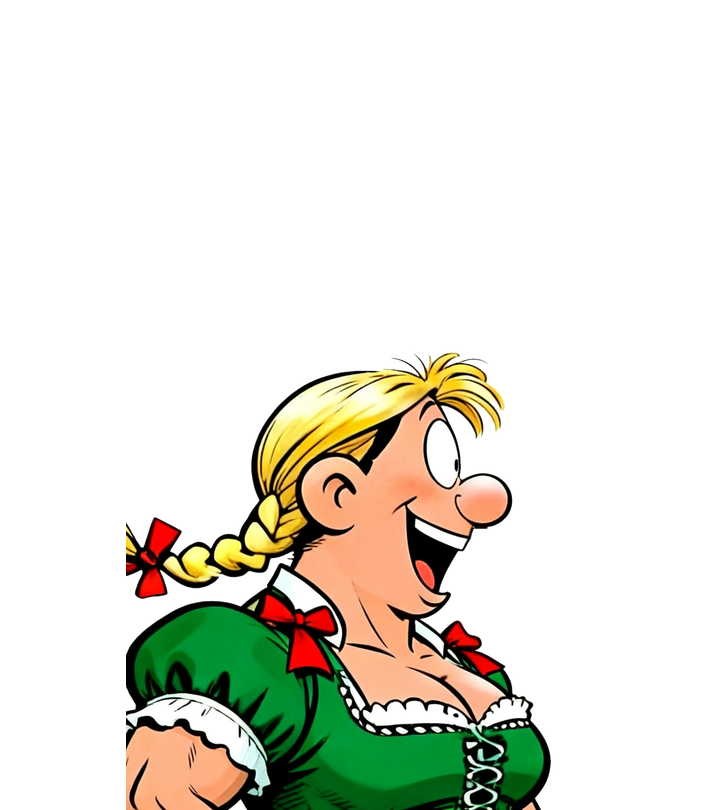
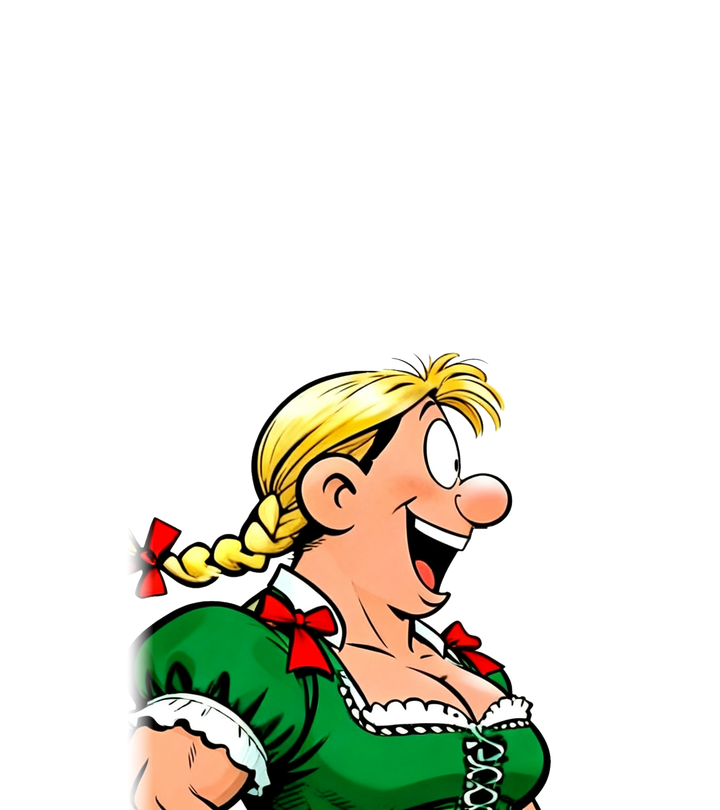
Story: Hanna's sleeves fade out at the sides instead of a box edge
Claude-Session: https://claude.ai/code/session_014QGDmV81LUu1R5ACRdt9j8

Changed region(s): [[0.1528, 0.7716, 0.2139, 1.0], [0.1528, 0.6481, 0.2139, 0.7407]]

diff --git a/guides/DESIGNER_MANUAL.md b/guides/DESIGNER_MANUAL.md
@@ -4629,7 +4629,7 @@ and then its `Door Sound` (`door_open`, a wooden door creaking open)
 name off the bottom middle of its picture, e.g. the Club House's, so the
 Trophy Room hut in front of it keeps its own name.
 
-**The village buttons (23 Oct 2026)**: the village picture (assets/base/village.png) now has the drawn Pub right of the brewery. Like the brewery church, it is a button: Buildings.csv `Village Art` = `pub_inn` (assets/base/map/pub_inn.png = only its pixels, pub_inn_hover.png = lit up with a gold edge). The pitch is a button too: the new row `play_field` ("Play a match", Action `play:friendly`, Village Art `village_field`). Clicking the grass does what the Play a match flag did (the Match Maker), and while that row is on the base the flag is not on the top row. The pieces are made by /mnt/project-files/art_tool/base/village_buttons/make_pieces.py. The Dorms is drawn in too (the white block far left, behind the tree, chapel and houses): Village Art `dorms_block`, lit up on hover the same way. The Brewer visitor is off the base for now: his Visitors.csv `Requires` is `flag:brewer_on_base`; put `unlocked:Brewery` back to bring him back. Later the same day the whole picture was redrawn (r172): the new wooden Club House chalet in the middle (Village Art `clubhouse_chalet`), the low houses and little chapel under the Dorms and Club House all together as the Training Ground (`training_houses`), and the wooden Trophy hut with the gold cup in the field corner between the stone wall and the fence (`trophy_hut`). Every building on the base now lights up yellow on hover. The Dorms and Club House name tags are lifted onto their own building with `Name Offset` so the houses in front do not hide them. Pieces: /mnt/project-files/art_tool/base/village_buttons/make_masks_r172.py, then make_pieces_r172.py. The base's name now hangs on the tavern sign like the other screens (data/MenuHeader.csv; Language.csv `the_base`, `tutorial_base`). THE TUTORIAL NOW STARTS ON THE BASE (23 Oct 2026, Anthony): Tuning.csv `tutorial_first_scene` = `tut-base-welcome`, one Dialogue.csv line over the village picture (StoryArt.csv background `village`): the Head Coach says "Ah Coach! You are here, glad you could make it", and its Next `prologue/open` carries on into Pub Dialogue 1 and the tutorial match as before. Put `prologue` back in `tutorial_first_scene` to open in the pub again. THE NEW INTRODUCTION (23 Oct, Anthony): the welcome is now four lines ("Welcome to Sturmball!" ... "let us get a drink at the Pub"), and it ends ON THE BASE itself, in the tutorial's own save: everything is greyed out except the Pub, which glows (Guide.csv row `tut_intro_pub`, Highlight `Pub`, Only `true`; the tutorial save is given the Pub by Tuning.csv `tutorial_start_effects`). Press the Pub and Tuning.csv `tutorial_pub_scene` plays: Dialogue.csv `tut-pub-arrive` ("Ah, nothing beats a nice cold beer!", "Ah Koch! My prodigy"), whose last line's Next `prologue/put_down` carries on into the pub scene as before, then the tutorial match. `tutorial_pub_building` names which Buildings.csv row is the Pub. Blank `tutorial_pub_scene` = no base walk: the welcome goes straight on to the match. A Guide.csv row with Only `true` now works on the base too: every other button is greyed and cannot be pressed (the End tutorial button stays), and a drawn building glows instead of getting a ring. After "Ah Koch! My prodigy" Koch slides in from the right and the Head Coach moves to the left, facing the middle (Anthony, 23 Oct): Dialogue.csv has a new column, `Joins`: who steps on stage as a line shows WITHOUT speaking, written Portrait:Side:Mood (here `koch:right:drunk` on prologue/put_down), several separated by ;. Check: tools/tutorial_check.gd. Later the same day (Anthony): every sign's dark edge is half as thick (MenuHeader.csv `backing` Size 30, pictures remade by art_tool/menu/header_aura.py), and THE DRAWN HEAD COACH is in: the story faces in assets/story/portraits/coach_*.png are now his drawn happy, sad, drunk and mad fronts and his happy side (cut out by art_tool/characters/coach/game/cut_portraits.py). His side faces (happy, sad, drunk, mad) are drawn half-turned, semi front/side like the old pixel ones (r173-r174, Anthony's pick). The pub in the story is empty now (Anthony, 23 Oct): StoryArt.csv no longer stacks the regulars layer (assets/story/backgrounds/bar_regulars.png, still there) on the bar room; add the row `bar,background,,,,res://assets/story/backgrounds/bar_regulars.png` under the bar room to bring them back. The room itself is redrawn in our comic style (assets/story/backgrounds/bar_room_drawn.png, r175), with three beer garden table sets in three different woods in the middle of the floor (r176); the old pixel room is still bar_room.png. His cut-outs have the white between his hair strands and the pale rim round his outline taken out, and each picture is padded at the top to the shape of a person's spot on the story screen, so he stands on its bottom edge just behind the text box instead of floating above it (same script). All eight faces were then redrawn a little zoomed out (r177-r178, Anthony: "Redraw all 7"), so his shoulders, arms and hands are inside the picture and his sides no longer end in a straight cut; each is cut off through the blue-white diamonds, where the text box hides the edge. The faces before that are kept in art_tool/characters/coach/before_r178/. THE DRAWN KOCH is in too (23 Oct, Anthony: "Replace the old koch with the new one please", then "as clean and same size as the head coach"): all eight of his faces (happy, sad, drunk, mad, each front and half-turned side) are redrawn clean like the Head Coach (r179-r180). Both men's faces are now cut and sized by ONE script, art_tool/characters/story_faces.py: each picture is cut 800 px below the top of his head and shrunk to the same width, so both men stand at the same size in every mood. Koch's plain face is his happy one. ONE SET OF COLOURS (23 Oct, Anthony: the colours must not change from scene to scene): the same script shifts every face's skin, hair and clothes to that man's happy front colours, and the person listening in a conversation is no longer greyed out (Tuning.csv `story_listener_dim` 1; 0.55 brings back the grey). His mad faces now have normal skin instead of a red face (r181, Anthony's pick). His silhouette and Bergmännlein faces (the transformation) are unchanged. Check: tools/village_buttons_shot.gd. THE DRAWN HANNA is in as well (23 Oct, Anthony: "Need new Hanna in our art work in the game please"): assets/story/portraits/hanna_front.png and hanna_side.png are her drawn happy face, front and half-turned (art_tool/characters/hanna/, r22), cut out of the white page and shrunk so her head is the same size as the Head Coach's when they stand side by side in the brewery talk (art_tool/characters/hanna/game/cut_portraits.py; its second number is her size, 0.65). Her drawings are close-ups, so her sleeves end in a straight cut at the sides. Check: tools/hanna_shot.gd photographs the brewery lines.
+**The village buttons (23 Oct 2026)**: the village picture (assets/base/village.png) now has the drawn Pub right of the brewery. Like the brewery church, it is a button: Buildings.csv `Village Art` = `pub_inn` (assets/base/map/pub_inn.png = only its pixels, pub_inn_hover.png = lit up with a gold edge). The pitch is a button too: the new row `play_field` ("Play a match", Action `play:friendly`, Village Art `village_field`). Clicking the grass does what the Play a match flag did (the Match Maker), and while that row is on the base the flag is not on the top row. The pieces are made by /mnt/project-files/art_tool/base/village_buttons/make_pieces.py. The Dorms is drawn in too (the white block far left, behind the tree, chapel and houses): Village Art `dorms_block`, lit up on hover the same way. The Brewer visitor is off the base for now: his Visitors.csv `Requires` is `flag:brewer_on_base`; put `unlocked:Brewery` back to bring him back. Later the same day the whole picture was redrawn (r172): the new wooden Club House chalet in the middle (Village Art `clubhouse_chalet`), the low houses and little chapel under the Dorms and Club House all together as the Training Ground (`training_houses`), and the wooden Trophy hut with the gold cup in the field corner between the stone wall and the fence (`trophy_hut`). Every building on the base now lights up yellow on hover. The Dorms and Club House name tags are lifted onto their own building with `Name Offset` so the houses in front do not hide them. Pieces: /mnt/project-files/art_tool/base/village_buttons/make_masks_r172.py, then make_pieces_r172.py. The base's name now hangs on the tavern sign like the other screens (data/MenuHeader.csv; Language.csv `the_base`, `tutorial_base`). THE TUTORIAL NOW STARTS ON THE BASE (23 Oct 2026, Anthony): Tuning.csv `tutorial_first_scene` = `tut-base-welcome`, one Dialogue.csv line over the village picture (StoryArt.csv background `village`): the Head Coach says "Ah Coach! You are here, glad you could make it", and its Next `prologue/open` carries on into Pub Dialogue 1 and the tutorial match as before. Put `prologue` back in `tutorial_first_scene` to open in the pub again. THE NEW INTRODUCTION (23 Oct, Anthony): the welcome is now four lines ("Welcome to Sturmball!" ... "let us get a drink at the Pub"), and it ends ON THE BASE itself, in the tutorial's own save: everything is greyed out except the Pub, which glows (Guide.csv row `tut_intro_pub`, Highlight `Pub`, Only `true`; the tutorial save is given the Pub by Tuning.csv `tutorial_start_effects`). Press the Pub and Tuning.csv `tutorial_pub_scene` plays: Dialogue.csv `tut-pub-arrive` ("Ah, nothing beats a nice cold beer!", "Ah Koch! My prodigy"), whose last line's Next `prologue/put_down` carries on into the pub scene as before, then the tutorial match. `tutorial_pub_building` names which Buildings.csv row is the Pub. Blank `tutorial_pub_scene` = no base walk: the welcome goes straight on to the match. A Guide.csv row with Only `true` now works on the base too: every other button is greyed and cannot be pressed (the End tutorial button stays), and a drawn building glows instead of getting a ring. After "Ah Koch! My prodigy" Koch slides in from the right and the Head Coach moves to the left, facing the middle (Anthony, 23 Oct): Dialogue.csv has a new column, `Joins`: who steps on stage as a line shows WITHOUT speaking, written Portrait:Side:Mood (here `koch:right:drunk` on prologue/put_down), several separated by ;. Check: tools/tutorial_check.gd. Later the same day (Anthony): every sign's dark edge is half as thick (MenuHeader.csv `backing` Size 30, pictures remade by art_tool/menu/header_aura.py), and THE DRAWN HEAD COACH is in: the story faces in assets/story/portraits/coach_*.png are now his drawn happy, sad, drunk and mad fronts and his happy side (cut out by art_tool/characters/coach/game/cut_portraits.py). His side faces (happy, sad, drunk, mad) are drawn half-turned, semi front/side like the old pixel ones (r173-r174, Anthony's pick). The pub in the story is empty now (Anthony, 23 Oct): StoryArt.csv no longer stacks the regulars layer (assets/story/backgrounds/bar_regulars.png, still there) on the bar room; add the row `bar,background,,,,res://assets/story/backgrounds/bar_regulars.png` under the bar room to bring them back. The room itself is redrawn in our comic style (assets/story/backgrounds/bar_room_drawn.png, r175), with three beer garden table sets in three different woods in the middle of the floor (r176); the old pixel room is still bar_room.png. His cut-outs have the white between his hair strands and the pale rim round his outline taken out, and each picture is padded at the top to the shape of a person's spot on the story screen, so he stands on its bottom edge just behind the text box instead of floating above it (same script). All eight faces were then redrawn a little zoomed out (r177-r178, Anthony: "Redraw all 7"), so his shoulders, arms and hands are inside the picture and his sides no longer end in a straight cut; each is cut off through the blue-white diamonds, where the text box hides the edge. The faces before that are kept in art_tool/characters/coach/before_r178/. THE DRAWN KOCH is in too (23 Oct, Anthony: "Replace the old koch with the new one please", then "as clean and same size as the head coach"): all eight of his faces (happy, sad, drunk, mad, each front and half-turned side) are redrawn clean like the Head Coach (r179-r180). Both men's faces are now cut and sized by ONE script, art_tool/characters/story_faces.py: each picture is cut 800 px below the top of his head and shrunk to the same width, so both men stand at the same size in every mood. Koch's plain face is his happy one. ONE SET OF COLOURS (23 Oct, Anthony: the colours must not change from scene to scene): the same script shifts every face's skin, hair and clothes to that man's happy front colours, and the person listening in a conversation is no longer greyed out (Tuning.csv `story_listener_dim` 1; 0.55 brings back the grey). His mad faces now have normal skin instead of a red face (r181, Anthony's pick). His silhouette and Bergmännlein faces (the transformation) are unchanged. Check: tools/village_buttons_shot.gd. THE DRAWN HANNA is in as well (23 Oct, Anthony: "Need new Hanna in our art work in the game please"): assets/story/portraits/hanna_front.png and hanna_side.png are her drawn happy face, front and half-turned (art_tool/characters/hanna/, r22), cut out of the white page and shrunk so her head is the same size as the Head Coach's when they stand side by side in the brewery talk (art_tool/characters/hanna/game/cut_portraits.py; its second number is her size, 0.65). Her drawings are close-ups, so her sleeves ran off the sides in a straight cut that read as a white box round her on the drawn brewery hall; they now fade out over the outer 60 px of each side (FADE in the same script). Check: tools/hanna_shot.gd photographs the brewery lines.
 
 **On Base (Buildings.csv, 23 Oct 2026)**: write `no` and that building is not drawn on the base, but it still exists (its key, window, unlocks and Club House sale all still work). Blank = drawn. The Traveling Tavern is `no` for now (Anthony's ask); empty the cell to bring the wagon back.
 
